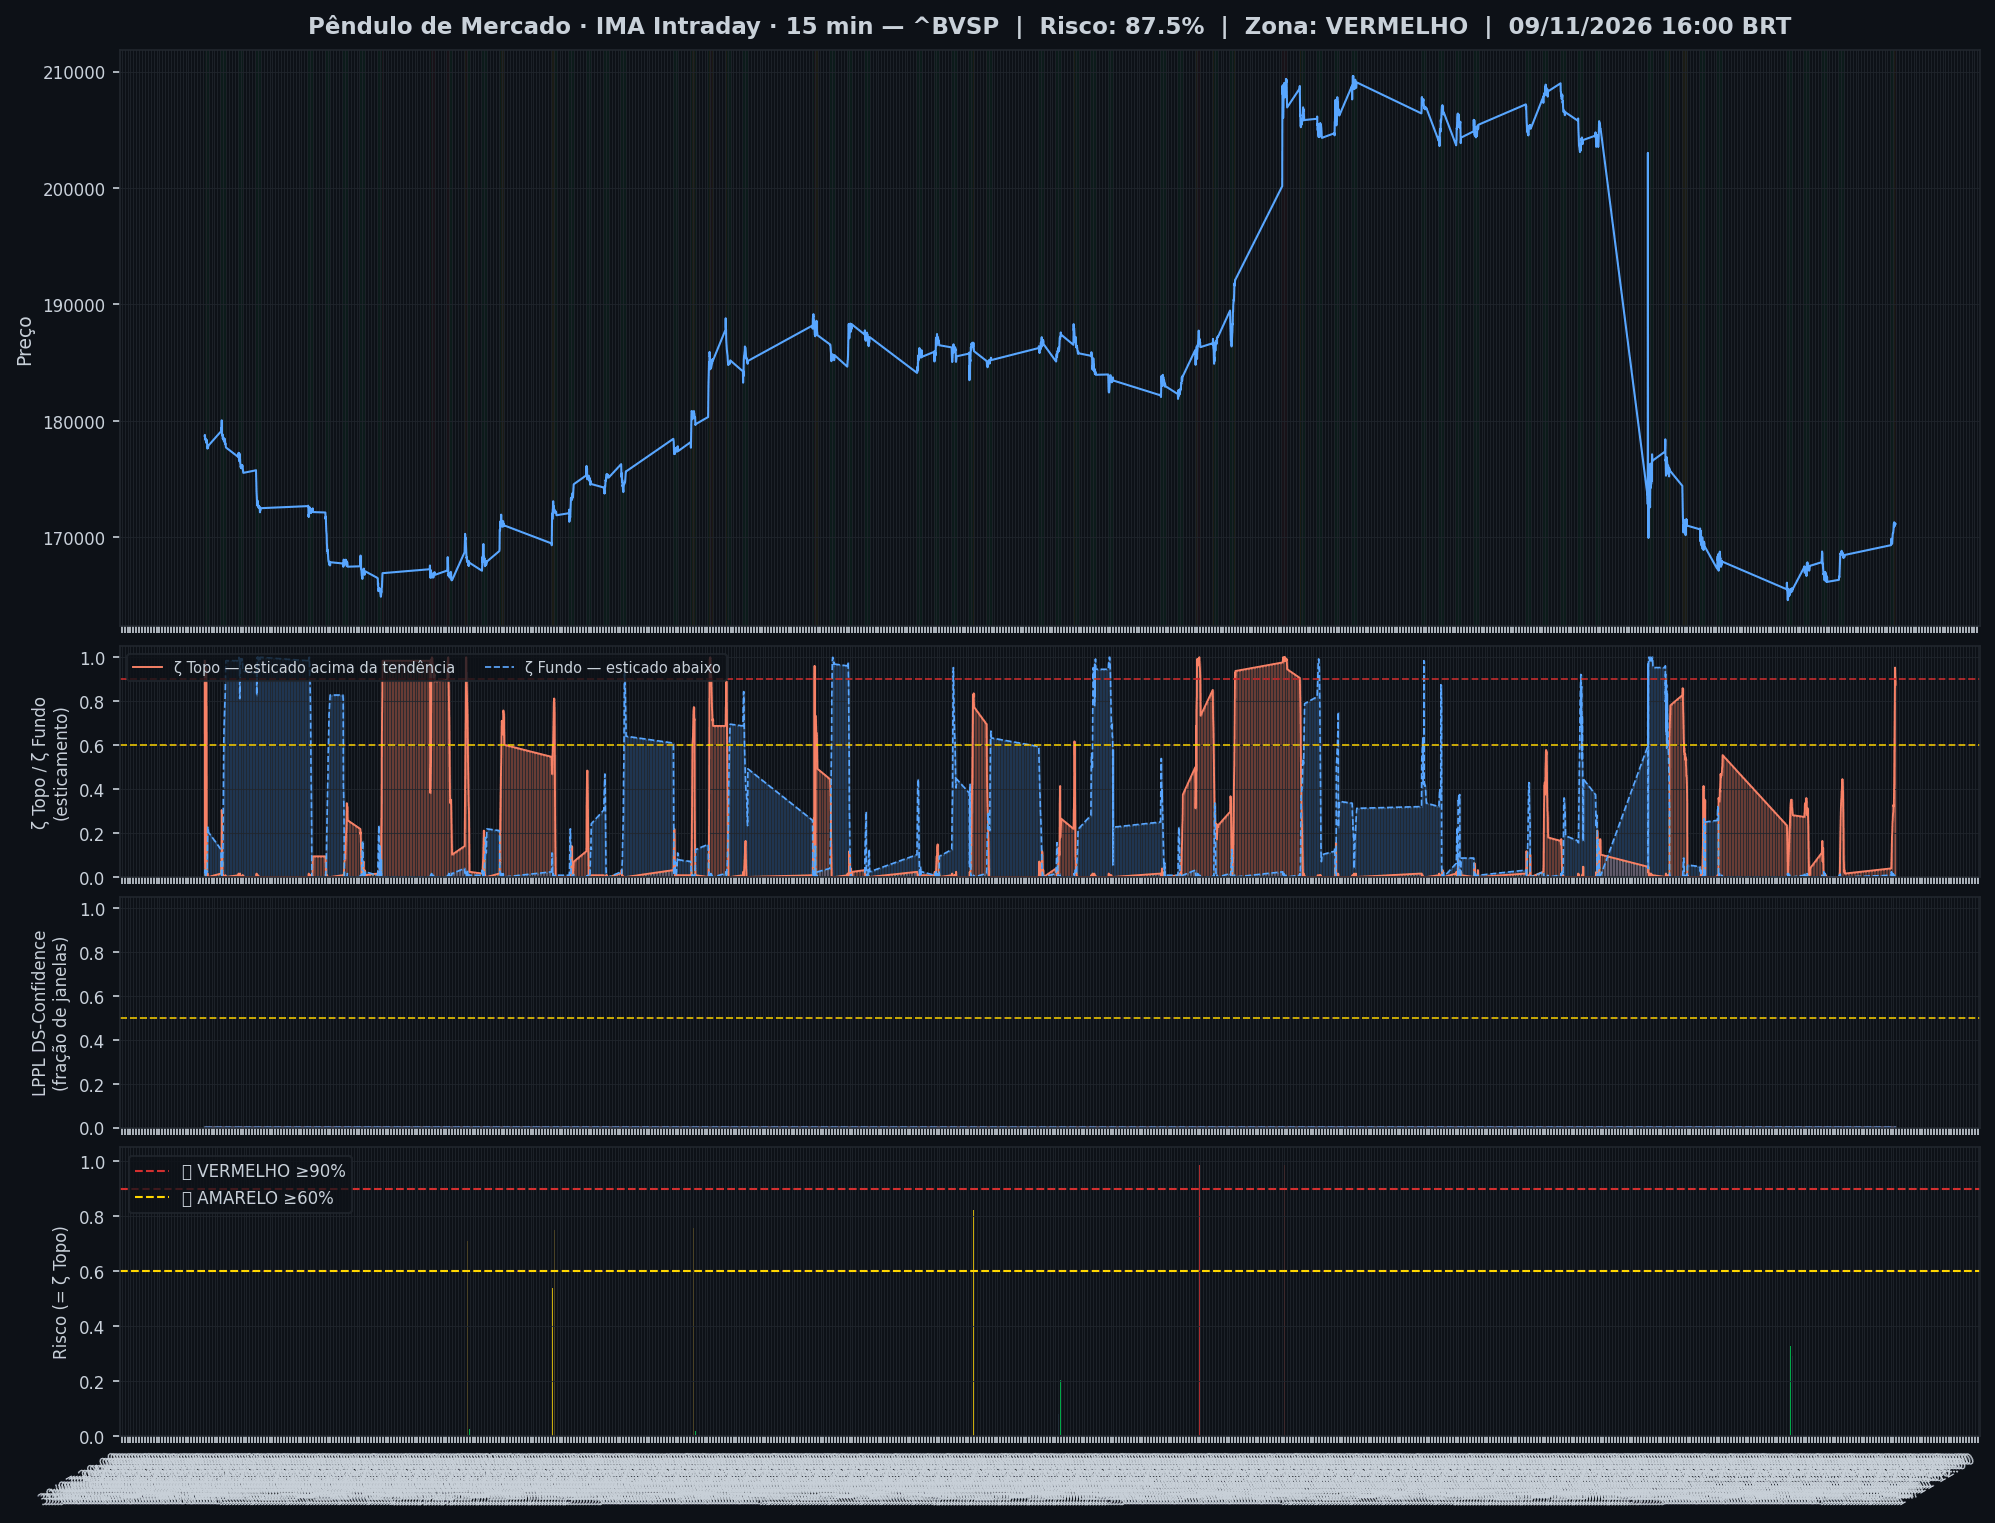
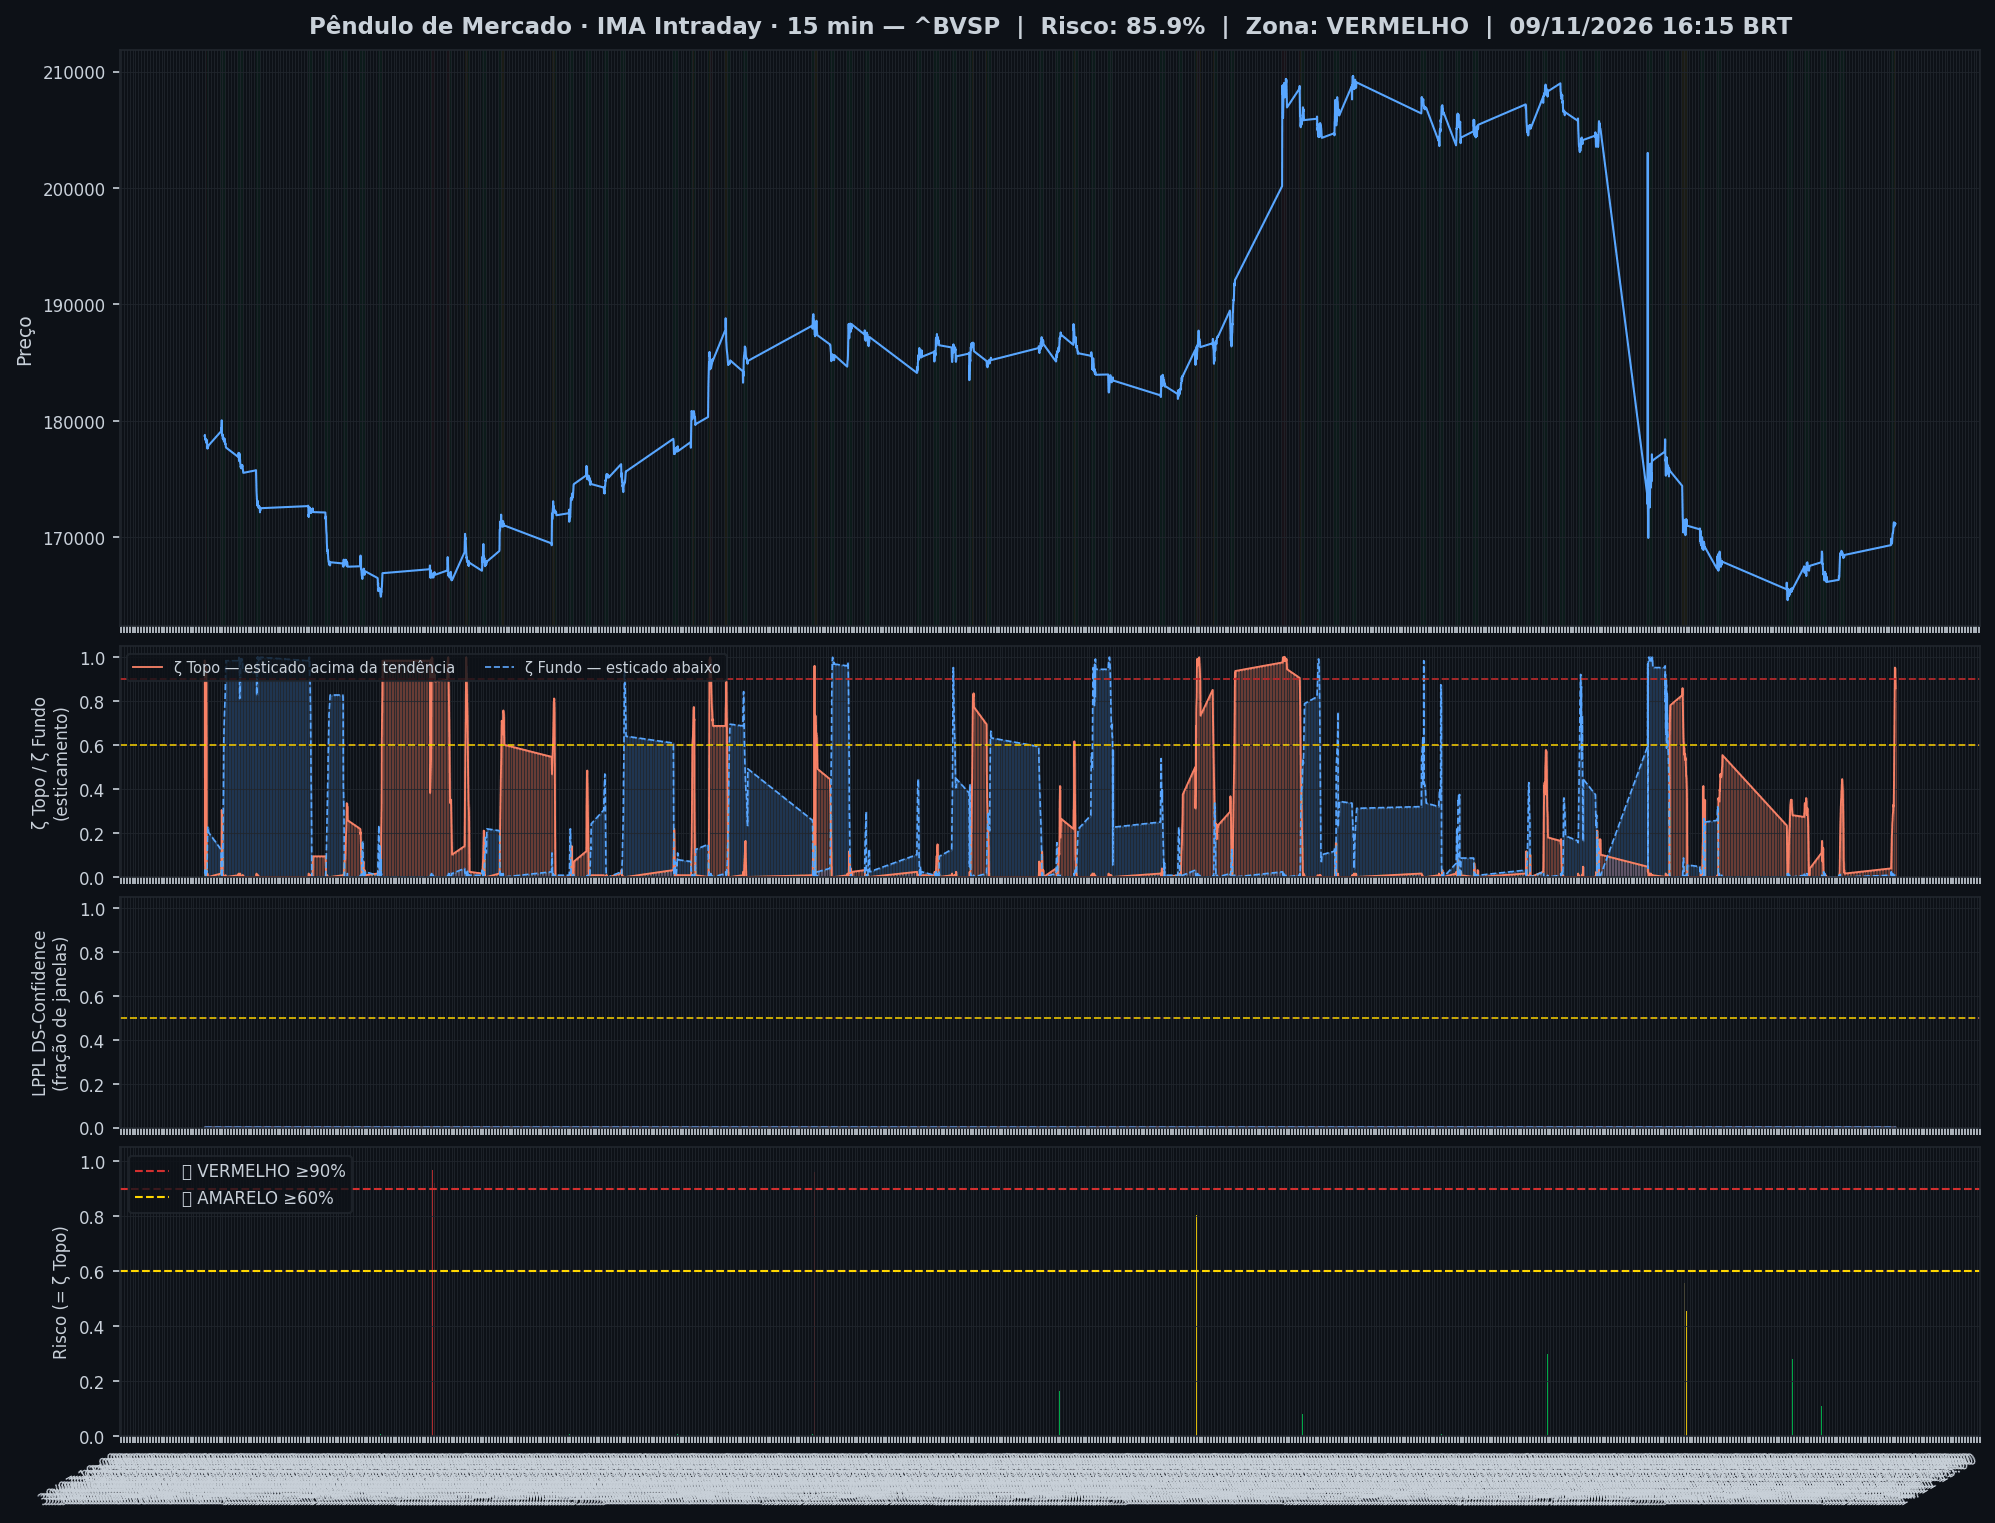
🤖 Auto: Sinal 09/11/2026 16:30

diff --git a/content/intraday/2026-11-09.md b/content/intraday/2026-11-09.md
@@ -1,10 +1,10 @@
 ---
-title: "🔴 Intraday 09/11/2026 16:00 BRT — VERMELHO"
+title: "🔴 Intraday 09/11/2026 16:15 BRT — VERMELHO"
 date: 2026-11-09
 tags: [intraday]
 ---
 
-> [!warning] Onde o mercado está agora (09/11 16:00, candles de 15 min): **🟡 Esticado para cima**
+> [!warning] Onde o mercado está agora (09/11 16:15, candles de 15 min): **🟡 Esticado para cima**
 > `Pânico ◀───────────────────●─▶ Euforia`
 >
 > O Ibovespa subiu mais rápido que o normal e está acima da sua faixa habitual.
@@ -20,26 +20,26 @@ tags: [intraday]
 > | 📍 **Sinais** | hoje: nenhum sinal | [abrir](sinais-topo-fundo/) |
 > | 🧪 **Placar ao vivo** | 1 operação(ões), 0 com lucro, soma -0,8% | [abrir](operacoes/) |
 
-> [!danger] IMA Intraday · 15 min (09/11 16:00): 🔴 **VERMELHO** — Risco 88% · ▼ -3 p.p. vs leitura anterior
-> `██████████████████░░`
+> [!danger] IMA Intraday · 15 min (09/11 16:15): 🔴 **VERMELHO** — Risco 86% · ▼ -2 p.p. vs leitura anterior
+> `█████████████████░░░`
 > ALERTA — esticamento extremo (ζ ≥ 0,90): risco de reversão.
 
 
-> [!warning] ⚠ Nível alto agora — IMA Intraday · 15 min (09/11 16:00)
-> - 🟡 **ζ Topo 88%** — preço esticado acima da tendência (risco de reversão)
+> [!warning] ⚠ Nível alto agora — IMA Intraday · 15 min (09/11 16:15)
+> - 🟡 **ζ Topo 86%** — preço esticado acima da tendência (risco de reversão)
 
 > [!note] 🧭 IMA Diário · viés (06/11): 🔪 **Queda forte em curso**
 > 📚 historicamente, quedas assim costumaram continuar um pouco antes de virar
 >
 > *Leitura educacional baseada em 26 anos de dados, não recomendação. [Como usar](../metodologia/crise#3-como-usar-na-prática).*
 
-| Indicador — IMA Intraday · 15 min (09/11 16:00) | Valor |
+| Indicador — IMA Intraday · 15 min (09/11 16:15) | Valor |
 |---|---|
-| 🔴 ζ Topo — preço esticado acima da tendência | 🟡 **88%** |
+| 🔴 ζ Topo — preço esticado acima da tendência | 🟡 **86%** |
 | 🔵 ζ Fundo — preço esticado abaixo da tendência | 0% |
 | 🫧 LPPL bolha — alta super-exponencial (risco de crash) | 0% |
 | 🫧 LPPL antibolha — queda super-exponencial (risco de repique) | 0% |
-| 📊 Ibovespa | 171.175 pts |
+| 📊 Ibovespa | 171.183 pts |
 
 ![Gráfico do sinal](../graficos/sinal_intraday.png)
 
@@ -47,6 +47,7 @@ tags: [intraday]
 
 | Data | Zona | Evento | Risco | ζ Topo | ζ Fundo | LPPL |
 |---|---|---|---|---|---|---|
+| 2026-11-09 16:15 | 🔴 VERMELHO |  | 🟡 **86%** | 🟡 **86%** | 0% | 0% |
 | 2026-11-09 16:00 | 🔴 VERMELHO |  | 🟡 **88%** | 🟡 **88%** | 0% | 0% |
 | 2026-11-09 15:45 | 🔴 VERMELHO |  | 🔴 **91%** | 🔴 **91%** | 0% | 0% |
 | 2026-11-09 15:30 | 🔴 VERMELHO |  | 🔴 **91%** | 🔴 **91%** | 1% | 0% |
@@ -76,41 +77,40 @@ tags: [intraday]
 | 2026-11-06 17:45 | 🟢 VERDE |  | **2%** | 2% | 0% | 0% |
 | 2026-11-06 17:30 | 🟢 VERDE |  | **2%** | 2% | 0% | 0% |
 | 2026-11-06 17:15 | 🟢 VERDE |  | **3%** | 3% | 0% | 0% |
-| 2026-11-06 17:00 | 🟢 VERDE |  | **2%** | 2% | 0% | 0% |
 
 <small>Destaques: 🟡 ≥ 60% · 🔴 ≥ 90% (Risco e ζ Topo) · 🔵 ≥ 60% · 🔪 ≥ 90% (ζ Fundo) · 🫧 ≥ 30% · 🫧🔴 ≥ 50% (LPPL)</small>
 
 ## Monitor Multi-Ativo
 
-**8% dos ativos em tensão** (0🔴 3🟡) · **0 com ζ Fundo alto** — quanto mais ativos disparam juntos, mais confiável o sinal.
+**4% dos ativos em tensão** (0🔴 2🟡) · **0 com ζ Fundo alto** — quanto mais ativos disparam juntos, mais confiável o sinal.
 
 > [!warning] Em destaque no multi-ativo
-> 🟡 **AMBEV S/A** ζ Topo 76% · 🟡 **ULTRAPAR** ζ Topo 63%
+> 🟡 **AMBEV S/A** ζ Topo 85%
 
 | Zona | Ativo | Setor | ζ Topo | ζ Fundo |
 |---|---|---|---|---|
-| 🟡 | **AMBEV S/A** | Consumo | 🟡 **75.8%** | 0.0% |
-| 🟡 | **ULTRAPAR** | Outros | 🟡 **63.3%** | 0.0% |
-| 🟢 | **USD/BRL** | Câmbio | 0.0% | 50.8% |
-| 🟢 | **B3** | Financeiro | 49.2% | 0.0% |
-| 🟡 | **VIBRA** | Energia | 47.7% | 0.0% |
-| 🟢 | **BRASIL** | Financeiro | 0.0% | 38.3% |
-| 🟢 | **PRIO** | Petróleo | 0.0% | 29.7% |
+| 🟡 | **AMBEV S/A** | Consumo | 🟡 **85.2%** | 0.0% |
+| 🟡 | **ULTRAPAR** | Outros | 59.4% | 0.0% |
+| 🟢 | **BRASIL** | Financeiro | 0.0% | 58.6% |
+| 🟢 | **USD/BRL** | Câmbio | 0.0% | 53.1% |
+| 🟢 | **B3** | Financeiro | 47.7% | 0.0% |
+| 🟢 | **VIBRA** | Energia | 42.2% | 0.0% |
+| 🟢 | **PRIO** | Petróleo | 0.0% | 26.6% |
+| 🟢 | **VALE** | Mineração | 23.4% | 0.0% |
 | 🟢 | **WEG** | Industrial | 22.7% | 0.8% |
-| 🟢 | **VALE** | Mineração | 21.1% | 0.0% |
-| 🟢 | **PETROBRAS** | Petróleo | 0.0% | 17.2% |
-| 🟢 | **REDE D OR** | Saúde | 16.4% | 0.0% |
-| 🟢 | **PETROBRAS** | Petróleo | 0.0% | 14.8% |
-| 🟢 | **SABESP** | Saneamento | 7.8% | 0.0% |
-| 🟢 | **EMBRAER** | Outros | 7.0% | 0.0% |
-| 🟢 | **ITAUSA** | Financeiro | 6.2% | 0.0% |
+| 🟢 | **REDE D OR** | Saúde | 17.2% | 0.0% |
+| 🟢 | **PETROBRAS** | Petróleo | 0.0% | 10.9% |
+| 🟢 | **PETROBRAS** | Petróleo | 0.0% | 9.4% |
+| 🟢 | **SABESP** | Saneamento | 6.2% | 0.0% |
+| 🟢 | **EMBRAER** | Outros | 4.7% | 0.0% |
+| 🟢 | **SUZANO S.A.** | Papel/Celulose | 4.7% | 0.8% |
+| 🟢 | **ITAUSA** | Financeiro | 3.9% | 0.0% |
 | 🟢 | **BRADESCO** | Financeiro | 3.9% | 0.0% |
-| 🟢 | **SUZANO S.A.** | Papel/Celulose | 2.3% | 0.8% |
-| 🟢 | **ITAUUNIBANCO** | Financeiro | 0.8% | 0.0% |
+| 🟢 | **LOCALIZA** | Aluguel | 0.0% | 3.9% |
 | 🟢 | **AXIA ENERGIA** | Energia | 0.0% | 0.8% |
 | 🟢 | **ENEVA** | Energia | 0.8% | 0.0% |
 | 🟢 | **GERDAU** | Siderurgia | 0.8% | 0.0% |
-| 🟢 | **LOCALIZA** | Aluguel | 0.0% | 0.8% |
+| 🟢 | **ITAUUNIBANCO** | Financeiro | 0.0% | 0.0% |
 | 🟢 | **BTGP BANCO** | Financeiro | 0.0% | 0.0% |
 | 🟢 | **COPEL** | Energia | 0.0% | 0.0% |
 | 🟢 | **EQUATORIAL** | Energia | 0.0% | 0.0% |
@@ -119,7 +119,7 @@ tags: [intraday]
 
 ![Monitor multi-ativo](../graficos/multi_intraday.png)
 
-*Página atualizada em 09/11/2026 16:15 BRT (leitura da barra de 2026-11-09 16:00 BRT).*
+*Página atualizada em 09/11/2026 16:30 BRT (leitura da barra de 2026-11-09 16:15 BRT).*
 
 > [!warning] O que este indicador não faz
 > Medido em 5 anos de Ibovespa, o ζ **não antecipa** topos nem fundos: a capacidade de separar o que sobe do que cai ficou em 0,49–0,52, e 0,50 é moeda jogada ao ar. Ele descreve o estado de agora; não é aviso do que vem. As zonas verde/amarelo/vermelho continuam na página como descrição desse estado — **não as use como sinal de entrada ou saída**.

diff --git a/content/index.md b/content/index.md
@@ -6,9 +6,9 @@ tags: [home]
 
 **As ondas do mercado, explicadas.** Leitura do Ibovespa com estatística de 26 anos, baseada no trabalho de pesquisadores e traders reconhecidos e adaptada por Jarbas Daniel da Costa.
 
-*Última atualização: 09/11/2026 16:15 BRT · Intraday 15min*
+*Última atualização: 09/11/2026 16:30 BRT · Intraday 15min*
 
-> [!warning] Onde o mercado está agora (09/11 16:00, candles de 15 min): **🟡 Esticado para cima**
+> [!warning] Onde o mercado está agora (09/11 16:15, candles de 15 min): **🟡 Esticado para cima**
 > `Pânico ◀───────────────────●─▶ Euforia`
 >
 > O Ibovespa subiu mais rápido que o normal e está acima da sua faixa habitual.
@@ -16,14 +16,14 @@ tags: [home]
 >
 > *Leitura educacional baseada em 26 anos de dados. Não é recomendação de investimento.*
 
-> [!warning] ⚠ Nível alto agora — IMA Intraday · 15 min (09/11 16:00)
-> - 🟡 **ζ Topo 88%** — preço esticado acima da tendência (risco de reversão)
+> [!warning] ⚠ Nível alto agora — IMA Intraday · 15 min (09/11 16:15)
+> - 🟡 **ζ Topo 86%** — preço esticado acima da tendência (risco de reversão)
 
 ## Agora
 
 | Módulo | Agora | |
 |---|---|---|
-| 🌊 **Sinal IMA** | 🔴 VERMELHO · 🟡 esticado para cima · ζ Topo 🟡 **88%** | [relatório](intraday/2026-11-09) |
+| 🌊 **Sinal IMA** | 🔴 VERMELHO · 🟡 esticado para cima · ζ Topo 🟡 **86%** | [relatório](intraday/2026-11-09) |
 | 📈 **Tendência MME9** | Diário — fora<br>Semanal — fora | [abrir](operacoes/tendencia) |
 | 🎯 **Entradas do método** | ⏳ aguardando: Diário · Nadaraya, Diário · Semáforo N3 após ζ Fundo | [abrir](operacoes/entradas) |
 | 📍 **Sinais** | hoje: nenhum sinal | [abrir](sinais-topo-fundo/) |
@@ -52,26 +52,26 @@ tags: [home]
 > *Leitura educacional baseada em 26 anos de dados, não recomendação. [Como usar](metodologia/crise#3-como-usar-na-prática).*
 
 > [!info]- 🌊 Detalhes do Sinal IMA (indicadores e últimos 7 pregões)
-> > [!danger] IMA Intraday · 15 min (09/11 16:00): 🔴 **VERMELHO** — Risco 88% · ▼ -3 p.p. vs leitura anterior
-> > `██████████████████░░`
+> > [!danger] IMA Intraday · 15 min (09/11 16:15): 🔴 **VERMELHO** — Risco 86% · ▼ -2 p.p. vs leitura anterior
+> > `█████████████████░░░`
 > > ALERTA — esticamento extremo (ζ ≥ 0,90): risco de reversão.
 >
 >
-> | Indicador — IMA Intraday · 15 min (09/11 16:00) | Valor |
+> | Indicador — IMA Intraday · 15 min (09/11 16:15) | Valor |
 > |---|---|
-> | 🔴 ζ Topo — preço esticado acima da tendência | 🟡 **88%** |
+> | 🔴 ζ Topo — preço esticado acima da tendência | 🟡 **86%** |
 > | 🔵 ζ Fundo — preço esticado abaixo da tendência | 0% |
 > | 🫧 LPPL bolha — alta super-exponencial (risco de crash) | 0% |
 > | 🫧 LPPL antibolha — queda super-exponencial (risco de repique) | 0% |
-> | 📊 Ibovespa | 171.175 pts |
+> | 📊 Ibovespa | 171.183 pts |
 >
-> **Multi-ativo:** 8% em tensão (0🔴 3🟡 de 25 ativos)
+> **Multi-ativo:** 4% em tensão (0🔴 2🟡 de 25 ativos)
 >
 > **Últimos 7 pregões**
 >
 > | Data | Zona | Risco | ζ Topo | ζ Fundo | LPPL |
 > |---|---|---|---|---|---|
-> | [09/11/2026](intraday/2026-11-09) | 🔴 VERMELHO | 🟡 **88%** | 🟡 **88%** | 0% | 0% |
+> | [09/11/2026](intraday/2026-11-09) | 🔴 VERMELHO | 🟡 **86%** | 🟡 **86%** | 0% | 0% |
 > | [06/11/2026](intraday/2026-11-06) | 🟢 VERDE | **2%** | 2% | 0% | 0% |
 >
 > <small>Destaques: 🟡 ≥ 60% · 🔴 ≥ 90% (Risco e ζ Topo) · 🔵 ≥ 60% · 🔪 ≥ 90% (ζ Fundo) · 🫧 ≥ 30% · 🫧🔴 ≥ 50% (LPPL)</small>

diff --git a/content/operacoes/entradas.md b/content/operacoes/entradas.md
@@ -31,7 +31,7 @@ description: "Compra depois de um sinal de fundo: Nadaraya no diário, semáforo
 > | Diário · Semáforo N3 após ζ Fundo | 07/07/26 a 172.021 | 10/08/26 a 172.021 | **+0,0%** | stop no preço de entrada |
 > | H4 · Semáforo N2 | 12/06/26 14h a 171.134 | 15/06/26 14h a 171.134 | **+0,0%** | stop no preço de entrada |
 >
-> <small>Atualizado 06/11 19:00 · checado no pregão às 16:15. Nota: ✅ passou no teste fora da amostra (walk-forward 2008–2026) · 🧪 em teste (H4, com aviso no Telegram) ou em observação (ζ, sem aviso) · 🧪 na tabela = operação do teste ao vivo.</small>
+> <small>Atualizado 06/11 19:00 · checado no pregão às 16:30. Nota: ✅ passou no teste fora da amostra (walk-forward 2008–2026) · 🧪 em teste (H4, com aviso no Telegram) ou em observação (ζ, sem aviso) · 🧪 na tabela = operação do teste ao vivo.</small>
 >
 > *Regras: depois de um sinal de fundo, o Diário entra quando o Nadaraya vira para cima; o Semanal e o H4 entram quando um fundo do semáforo fica fixo. Stop e saída de cada regra na [metodologia](metodologia/regras-de-operacao#entradas-do-método). Nenhuma regra de venda passou no teste. Os números do histórico têm viés de escolha (overfitting); o placar ao vivo é o que vale. Leitura educacional do método, não recomendação.*
 

diff --git a/content/historico.md b/content/historico.md
@@ -5,7 +5,7 @@ tags: [historico]
 
 # 📜 Histórico de leituras (v5)
 
-**2.235 leituras** desde 2026-07-03. Na página ficam os últimos 3 dias leitura por leitura e o resumo de cada dia anterior; o registro inteiro está no arquivo para baixar.
+**2.236 leituras** desde 2026-07-03. Na página ficam os últimos 3 dias leitura por leitura e o resumo de cada dia anterior; o registro inteiro está no arquivo para baixar.
 
 [**Baixar o histórico completo**](historico-completo.csv) (98 KB · abre no Excel e no LibreOffice)
 
@@ -16,6 +16,7 @@ tags: [historico]
 
 | Data | Modo | Zona | Risco | IMA | LPPL |
 |---|---|---|---|---|---|
+| 2026-11-09 16:15 | intraday | 🔴 VERMELHO | 🟡 **86%** | 🟡 **86%** | 0% |
 | 2026-11-09 16:00 | intraday | 🔴 VERMELHO | 🟡 **88%** | 🟡 **88%** | 0% |
 | 2026-11-09 15:45 | intraday | 🔴 VERMELHO | 🔴 **91%** | 🔴 **91%** | 0% |
 | 2026-11-09 15:30 | intraday | 🔴 VERMELHO | 🔴 **91%** | 🔴 **91%** | 0% |

diff --git a/content/operacoes/ranking.md b/content/operacoes/ranking.md
@@ -5,7 +5,7 @@ tags: [operacoes]
 description: "As regras de compra do site ordenadas pelo resultado, com treino, teste e placar ao vivo"
 ---
 
-*Atualizado 09/11/2026 16:15 · histórico simulado com as regras congeladas em 23/10/2026 + placar ao vivo.*
+*Atualizado 09/11/2026 16:30 · histórico simulado com as regras congeladas em 23/10/2026 + placar ao vivo.*
 
 As regras de compra do site, **da que mais rendeu para a que menos rendeu**. O resultado é por operação, no índice à vista, sem custos e sem juros compostos (a soma é só a soma das operações). **Treino** = entradas de 2001 a 2013 e **teste** = 2014 em diante: uma regra só é confiável se ganhou nos dois. O único resultado sem nenhum ajuste ao histórico é o **placar ao vivo**.
 

diff --git a/content/linha-do-tempo/index.md b/content/linha-do-tempo/index.md
@@ -5,7 +5,7 @@ description: "Todo sinal, ordem, stop e aviso do Pêndulo de Mercado, do mais re
 tags: [eventos]
 ---
 
-*Atualizada 09/11/2026 16:15 BRT · a cada 15 min no pregão e às 19h.*
+*Atualizada 09/11/2026 16:30 BRT · a cada 15 min no pregão e às 19h.*
 
 Tudo o que o sistema fez ou detectou, **do mais recente para o mais antigo**: sinais de topo e fundo, ordens de compra e de venda armadas, compras, vendas, stops, avisos de 🚨 preço perto do nível e mudanças do Sinal IMA. Os **últimos 7 dias** ficam abertos; o resto, por **ano → mês → dia**.
 
